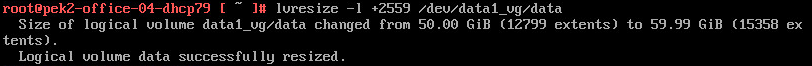
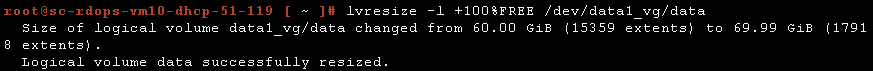
Add Harbor ova migration guide

diff --git a/docs/migrate_ova_guide.md b/docs/migrate_ova_guide.md
@@ -1,0 +1,41 @@
+# Harbor OVA upgrade and database migration guide
+
+This guide is limited to migrate a Harbor OVA instance to a next release. All Harbor data storeage settings is not manually changed after the existing Harbor OVA deployed.
+
+**Steps to migrate Harbor OVA instances:**
+
+1. Before migration, you need to note down these following items:
+   - Note down the value of db_password in /data/harbor.cfg.
+   - **"Networking properties"** if need to keep these settings. you can find them in **"Edit Settings"** -> **"vApp Options"**  
+   ![Screenshot of vApp Options](img/ovainstall/vappoptions.png)
+
+2. In the vSphere Web Client, Select **"Shut Down Guest OS"** on the existing OVA instances, then select **"Edit Settings"**, remove the **"Hard disk 2"**, uncheck **"Delete files from datastore"**. All disks in the logical volume "data1_vg" should be removed if the original logic volume have been extended. Use pvscan command to check disks in logical volume "data1_vg".
+   
+   ![Screenshot of pvscan](img/ovainstall/pvscan.png)
+   
+    Usually, the sda is the Hard Disk1 in the **"Edit Settings"** pannel, and the sdb is Hard Disk2 and so on. Note down all location of disk files in logical volume "data1_vg".
+   
+   ![Screenshot of Remove Disk](img/ovainstall/removedisk.png)
+
+3. Deploy a new Harbor OVA instances. You may use different settings or keep same settings.
+
+    |  Configuration Section Name |Use Different Settings | Keep Same Settings | 
+    |-------------------------------- | ------------------|---------------------------------------------  |   
+    | Certificates                    | Leave blank to use auto-generated certificates or paste in new certificates  |Replace files in /data/ca_download and /data/cert with backup files in the same path of prevous Harbor instance and restart Harbor OVA after migration | 
+    | Harbor Configuration            | N/A |Input a random administrator password to bypass the data validation, it uses previous settings after migration |   
+    | LDAP Configuration              | N/A |Leave blank, it uses previous settings after migration                 | 
+    | Networking Properties           | Input new settings | Input previous settings                                | 
+    | System                          | Input new settings | Input previous settings                                |
+    
+4. Copy all disk files of logic volume "data1_vg" in Step 2 to the new Harbor OVA's folder in vSphere's datastore.
+5. Before powering on the new Harbor OVA instances, select **"Edit Settings"**, after remove the "Hard disk 2", then click **" Existing Hard Disk"** in **"New Device"**, let it point to the disk file copied in Step 4. Please add all disk files in the same order with previous OVA instance.
+6. Power on the new OVA instance, login to the console and run following commands:
+   ```
+   chmod 700 /migrate_OVA.sh
+   /migrate_OVA.sh 
+   ```
+   When prompt, input the value of db_password that note down in Step 1.
+7. After the script is complete, visit URL: https://*&lt;DNS Name&gt;* to verify the new Harbor OVA instance. the administrator's password is the same password of previous Harbor instance.
+
+
+

diff --git a/docs/expand_hard_disk.md b/docs/expand_hard_disk.md
@@ -1,0 +1,104 @@
+# Expand the Hard Disk of Virtual Appliance
+
+If you install Harbor with OVA, the persistent data(such as images and database) is stored in a hard disk which is mounted on directory "/data", and the default size is 60GB. As more and more images are pushed into it, the capacity may not meet your requirements.  
+
+You can check the space on Harbor web UI by clicking on **Projects**:
+
+
+
+![lvm](img/lvm/check_on_ui_01.png)
+
+If your free space is running out, you can expand the size of the hard disk by the following steps:  
+
+1. Add New Hard Disk to VM  
+
+    (1) Log in vSphere web client. Power off Harbor's virtual appliance.  
+    (2) Right click on the VM and select "Edit Settings".  
+    (3) Select "New Hard Disk", and click "OK".  
+	
+    ![lvm](img/lvm/add_new_hard_disk.png)
+		
+    We add a 10GB new hard disk to show the operations.  
+	
+    (4) Power on the VM.  
+
+2. Expand Hard Disk using LVM  
+
+	Login from the console of the virtual appliance and run the following commands:  
+
+	(1) Check the current size of "/data":  
+	```sh
+	df -h /data
+	```
+	
+	![lvm](img/lvm/size_of_data_01.png)
+	
+	(2) Find the new hard disk, e.g. "/dev/sdc". Replace all "/dev/sdc" with your disk in the following commands.  
+	```sh
+	fdisk -l
+	```
+	
+	![lvm](img/lvm/find_the_new_harddisk.png)
+	
+	(3) Create new physical volume:  
+	```sh
+	pvcreate /dev/sdc
+	```
+	
+	(4) Check the volume group:  
+	```sh
+	vgdisplay
+	```
+	
+	![lvm](img/lvm/vg_01.png)
+	
+	(5) Expand the volume group:
+	```sh
+	vgextend data1_vg /dev/sdc
+	```
+	
+	(6) Check the volume group again:  
+	```sh
+	vgdisplay
+	```
+	
+	![lvm](img/lvm/vg_02.png)
+	
+	(7) Check the logical volume:
+	```sh
+	lvdisplay
+	```
+	
+	![lvm](img/lvm/lv_01.png)
+	
+	(8) Resize the logical volume:  
+	```sh
+	lvresize -l +100%FREE /dev/data1_vg/data
+	```
+	
+	![lvm](img/lvm/resize_lv.png)
+	
+	(9) Check the logical volume again, note the change of "LV Size":
+	```sh
+	lvdisplay
+	```
+	
+	![lvm](img/lvm/lv_02.png)
+	
+	(10) Resize the file system:
+	```sh
+	resize2fs /dev/data1_vg/data
+	```
+	
+	(11) Check the size "/data" again:
+	```sh
+	df -h /data
+	```
+	
+	![lvm](img/lvm/size_of_data_02.png)
+	
+	You can also check the size on Harbor web UI:
+	
+	![lvm](img/lvm/check_on_ui.png)
+
+After that, your disk should be expanded successfully. If you want to add more hard disks, do the steps again.

diff --git a/docs/install_guide_ova.md b/docs/install_guide_ova.md
@@ -110,4 +110,8 @@
 
     ![Screenshot of after login](img/ovainstall/afterlogin.png)
 
-Please run "tdnf distro-sync" command from time to time to keep the OS up to date.
+    To migrate Harbor OVA, please refer [migrate OVA guide](migrate_ova_guide.md)
+  
+    To extend the data disk in Harbor OVA, please refer [Expand the Hard Disk of Virtual Appliance](expand_hard_disk.md)
+
+    Please run "tdnf distro-sync" command from time to time to keep the OS up to date.

diff --git a/docs/migration_guide.md b/docs/migration_guide.md
@@ -9,6 +9,8 @@ When upgrading your existing Habor instance to a newer version, you may need to 
 
 - You must back up your data before any data migration.
 
+- To migrate harbor OVA, please refer [migrate OVA guide](migrate_ova_guide.md)
+
 ### Upgrading Harbor and migrating data
 
 1. Log in to the host that Harbor runs on, stop and remove existing Harbor instance if it is still running:
